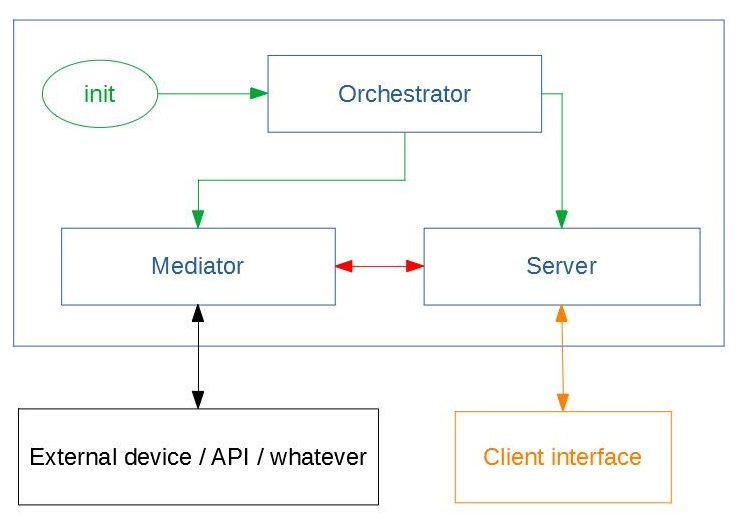
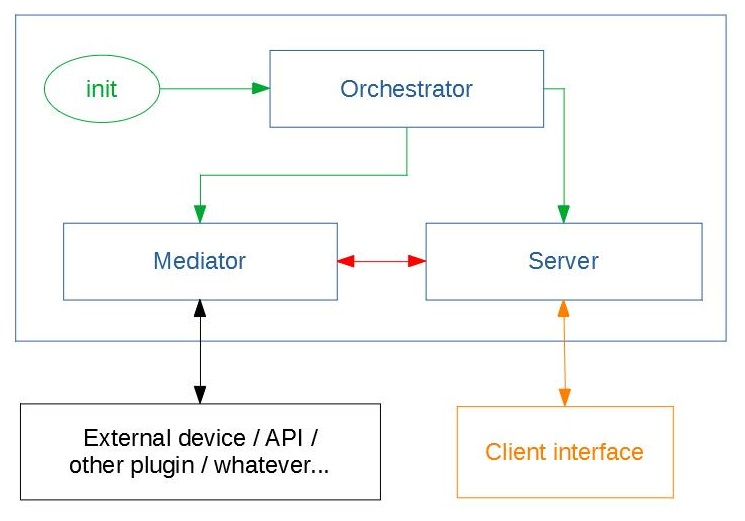
improve documentation

diff --git a/lib/components/Orchestrator.js b/lib/components/Orchestrator.js
@@ -133,7 +133,7 @@ module.exports = class Orchestrator extends MediatorUser {
 
 			}
 
-		// middleware
+		// middlewares
 
 			appMiddleware (req, res, next) {
 

diff --git a/README.md b/README.md
@@ -28,37 +28,34 @@ $ npm install node-pluginsmanager-plugin
 
 ![Classes](./documentation/extends.jpg)
 
+> Please note the fact that, in this version, init & release methods of each classes should not be re-writted anymore...
+
 ### Bootable (extends EventEmitter)
 
   -- Methods --
 
-  * ``` init(data?: any): Promise<void> ``` method used in EACH child. must be re-writted.
-  * ``` release(data?: any): Promise<void> ``` method used in EACH child. can be re-writted, but don't forget to call removeAllListeners.
+    --- protected ---
+
+  * ``` protected _initWorkSpace(data?: any): Promise<void>; ``` MUST be re-writted. Used to avoid full init logic re-writting.
+  * ``` protected _releaseWorkSpace(data?: any): Promise<void>; ``` MUST be re-writted. Used to avoid full release logic re-writting.
+
+    --- public ---
+
+  * ``` init(data?: any): Promise<void> ``` should not be re-writted. Each child has is own init logic.
+  * ``` release(data?: any): Promise<void> ``` should not be re-writted. Each child has is own release logic.
 
 ### Mediator (extends Bootable)
 
   -- Events --
 
   * ``` initialized ``` fired when mediator is initialized
+  * ``` released ``` fired when mediator is released
 
   -- Attributes --
 
-  * ``` initialized: boolean ```
-
-  -- Methods --
-
-  * ``` _fireInitialized(void): Promise<void> ``` set "initialized" to true and fire "initialized" event
-  * ``` checkConf(void): Promise<void> ``` used to check plugin's configuration. should be re-writted.
-
-### MediatorUserOptions (extends object)
-
-  * ``` mediator: Mediator ``` mediator used by the class
+  * ``` initialized: boolean ``` mediator status
 
 ### MediatorUser (extends Bootable)
-
-  -- Constructor --
-
-  * ``` constructor(options: MediatorUserOptions) ```
 
   -- Attributes --
 
@@ -66,16 +63,25 @@ $ npm install node-pluginsmanager-plugin
 
   -- Methods --
 
-  * ``` checkMediator(void): Promise<void> ``` check mediator, ensure inheritance & "initialized" status
+  * ``` checkMediator(void): Promise<void> ``` check mediator
+
+### ServerOptions (extends object)
+
+  * ``` mediator: Mediator ``` mediator used by the class
 
 ### Server (extends MediatorUser)
+
+  -- Constructor --
+
+  * ``` constructor(options: ServerOptions) ```
 
   -- Methods --
 
   * ``` appMiddleware(req: Request, res: Response, next: function): void ``` middleware for express & others to add routes, should be re-writted
   * ``` httpMiddleware(req: Request, res: Response): boolean ``` middleware for native http[s] server to add routes, should be re-writted
+  * ``` socketMiddleware(server: WebSocketServer): void ``` middleware for socket to add bilateral push events, should be re-writted if used
 
-### OrchestratorOptions (extends MediatorUserOptions)
+### OrchestratorOptions (extends object)
 
   * ``` packageFile: string ``` package file used by the plugin (absolute path)
   * ``` mediatorFile: string ``` mediator file used by the plugin (absolute path)
@@ -83,16 +89,31 @@ $ npm install node-pluginsmanager-plugin
 
 ### Orchestrator (extends MediatorUser)
 
+> "there is a major difference between "load" & "init" methods : "load" just load data from package file (and will always be executed), "init" create Mediator & Server instance and run the plugin (only if declared as enabled)
+> "there is a major difference between "release" & "destroy" methods : "release" stop the plugin and destroy the Mediator and the Server instances but keep package data, "destroy" release the data (used when uninstall, update, etc...)
+> you don't have to inherit "_initWorkSpace" & "_releaseWorkSpace" methods in Orchestrator childs
+
   -- Constructor --
 
   * ``` constructor(options: OrchestratorOptions) ```
 
   -- Attributes --
 
-  * ``` _Server: Server | null ```
-  * ``` _packageFile: string ```
-  * ``` _mediatorFile: string ```
-  * ``` _serverFile: string ```
+    --- protected ---
+
+  * ``` _Server: Server | null ``` server used by the class
+
+  * ``` _packageFile: string ``` package file used by the plugin (absolute path) (see OrchestratorOptions)
+  * ``` _mediatorFile: string ``` mediator file used by the plugin (absolute path) (see OrchestratorOptions)
+  * ``` _serverFile: string ``` server file used by the plugin (absolute path) (see OrchestratorOptions)
+
+  * ``` _extended: Array<string> ``` non-managed data's names, extracted from package file, used to properly destroy plugin if necessary
+
+    --- public ---
+
+  * ``` enabled: boolean ``` is plugin enable ? default=true (you should define it by re-write "isEnable" method)
+  * ``` initialized: boolean ``` is plugin initialized ?
+
   * ``` authors: Array<string> ```
   * ``` description: string ```
   * ``` dependencies: object | null ```
@@ -106,15 +127,30 @@ $ npm install node-pluginsmanager-plugin
 
   -- Methods --
 
+    --- checkers ---
+
+  * ``` checkConf(void): Promise<void> ``` check plugin's conf (optional, should be re-writted if a specific conf is used)
+  * ``` isEnable(void): Promise<void> ``` used to define plugin execution
   * ``` checkFiles(void): Promise<void> ``` check files existance
-  * ``` checkServer(void): Promise<void> ``` check server, ensure inheritance
-  * ``` loadDataFromPackageFile(void): Promise<void> ``` load all data from package file, dynamically add new attributes
-  * ``` destroy(void): Promise<void> ``` reset standards attributes (release does not do that)
+  * ``` checkServer(void): Promise<void> ``` check server
+  * ``` checkServerSync(void): boolean ``` check server in a synchronous way
+
+    --- middlewares ---
+
+  * ``` appMiddleware(req: Request, res: Response, next: function): void ``` transfert to Server middleware
+  * ``` httpMiddleware(req: Request, res: Response): boolean ``` transfert to Server middleware
+  * ``` socketMiddleware(server: WebSocketServer): void ``` transfert to Server middleware
+
+    --- load / destroy ---
+
+  * ``` load(void): Promise<void> ``` load all data from package file, dynamically add new attributes
+  * ``` destroy(void): Promise<void> ``` reset attributes (release does not do that)
+
+    --- write ---
+
   * ``` install(data?: any): Promise<void> ``` used after plugin installation (create ressources). should be re-writted.
   * ``` update(data?: any): Promise<void> ``` used after plugin update. should be re-writted.
   * ``` uninstall(data?: any): Promise<void> ``` used before plugin uninstall (remove ressources). should be re-writted.
-  * ``` appMiddleware(req: Request, res: Response, next: function): void ``` transfert request to Server middleware (if the plugin is initialized)
-  * ``` httpMiddleware(req: Request, res: Response): boolean ``` transfert request to Server middleware (if the plugin is initialized)
 
 ## Examples
 
@@ -145,6 +181,14 @@ const { get } = require('https');
 const { Mediator } = require('node-pluginsmanager-plugin');
 
 class MyPluginMediator extends Mediator {
+
+  _initWorkSpace () {
+    return Promise.resolve();
+  }
+
+  _releaseWorkSpace () {
+    return Promise.resolve();
+  }
 
   _query (search) {
 
@@ -196,6 +240,14 @@ class MyPluginMediator extends Mediator {
 const { Server } = require('node-pluginsmanager-plugin');
 
 class MyPluginServer extends Server {
+
+  _initWorkSpace () {
+    return Promise.resolve();
+  }
+
+  _releaseWorkSpace () {
+    return Promise.resolve();
+  }
 
   appMiddleware (req, res, next) {
 
